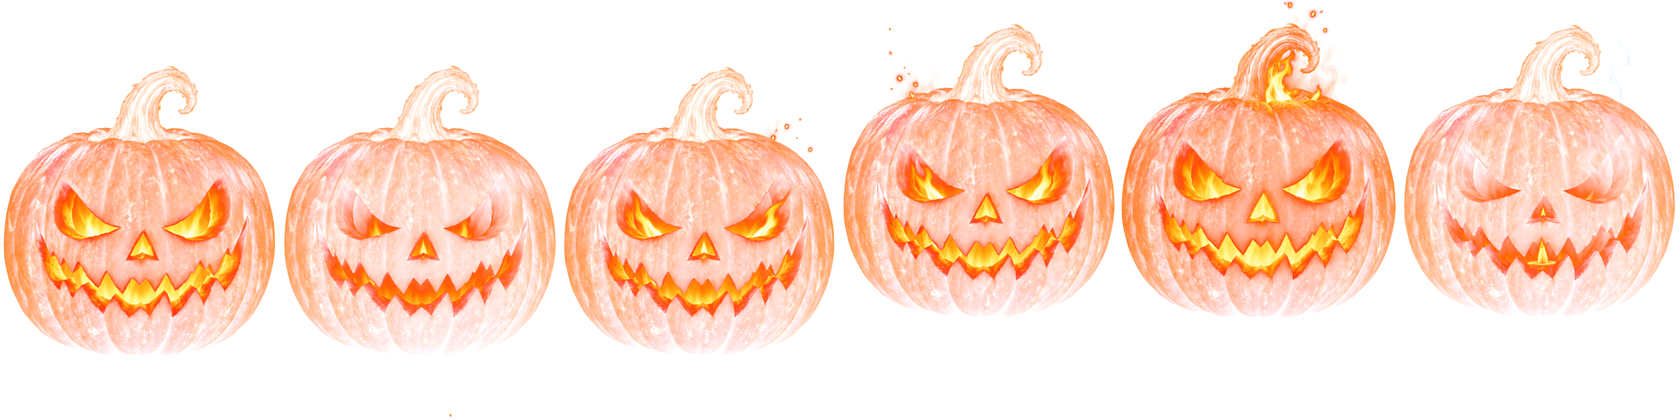
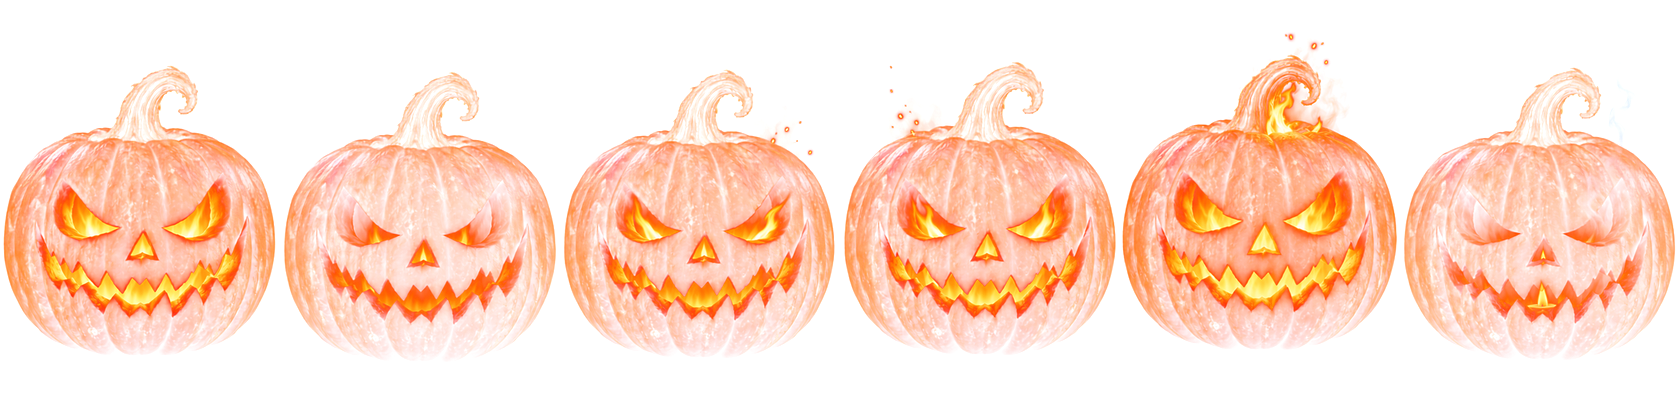
Header pumpkins: clear of the pills, frames aligned so they stop bouncing

Changed region(s): [[0.1548, 0.0619, 1.0, 0.8357]]

diff --git a/web/styles.css b/web/styles.css
@@ -1020,5 +1020,5 @@ html.cinema .search, html.cinema input.range { background: rgba(255,238,214,.07)
 @keyframes hw-apparition { 0% { opacity: 0; } 20% { opacity: .8; } 70% { opacity: .8; } 100% { opacity: 0; } }
 .hw-pumpkin { background-image: url(/assets/pumpkin-strip.png); animation: hw-frames .9s steps(6, end) infinite; width: 96px; height: 144px; }
 /* up in the header's empty stretch, clear of the controls */
-.hw-pumpkin-a { left: 1400px; top: -6px; }
-.hw-pumpkin-b { left: 1300px; top: 14px; width: 72px; height: 108px; animation-duration: 1.3s; animation-delay: -.4s; }
+.hw-pumpkin-a { left: 1340px; top: -6px; }
+.hw-pumpkin-b { left: 1245px; top: 14px; width: 72px; height: 108px; animation-duration: 1.3s; animation-delay: -.4s; }

diff --git a/tools/halloween-sprites.py b/tools/halloween-sprites.py
@@ -1,7 +1,8 @@
 #!/usr/bin/env python3
 """Slice a 3x2 sprite sheet (frames on pure black) into a horizontal strip with real alpha, so the
 panel needs no blend modes: alpha = brightness, colour un-premultiplied.
-usage: halloween-sprites.py <sheet.png> <out-strip.png> [frame-width]"""
+usage: halloween-sprites.py <sheet.png> <out-strip.png> [frame-width] [align]
+align pins every frame's solid body to frame 0's bottom and centre, for things that must not bounce (the pumpkin)"""
 import sys
 from PIL import Image, ImageChops
 
@@ -11,17 +12,28 @@ def unpremultiply(p, a):
 
 src, out = sys.argv[1], sys.argv[2]
 fw = int(sys.argv[3]) if len(sys.argv) > 3 else 280
+align = len(sys.argv) > 4 and sys.argv[4] == 'align'
 im = Image.open(src).convert('RGB')
 W, H = im.size
 cw, ch = W // 3, H // 2
 fh = round(fw * ch / cw)
 strip = Image.new('RGBA', (fw * 6, fh))
+ref = None
 for i in range(6):
     cell = im.crop(((i % 3) * cw, (i // 3) * ch, (i % 3 + 1) * cw, (i // 3 + 1) * ch)).resize((fw, fh), Image.LANCZOS)
     r, g, b = cell.split()
     alpha = ImageChops.lighter(ImageChops.lighter(r, g), b).point(lambda v: max(0, min(255, round((v - 10) * 255 / 245))))
     out_px = [unpremultiply(p, a) for p, a in zip(cell.getdata(), alpha.getdata())]
     frame = Image.new('RGBA', (fw, fh)); frame.putdata(out_px)
-    strip.paste(frame, (i * fw, 0))
+    dx = dy = 0
+    if align:
+        # solid rows only (a speck or spark does not count): the body's bottom edge and horizontal centre
+        solid = alpha.point(lambda v: 255 if v > 100 else 0)
+        rows = [y for y in range(fh) if solid.crop((0, y, fw, y + 1)).histogram()[255] >= 20]
+        cols = [x for x in range(fw) if solid.crop((x, 0, x + 1, fh)).histogram()[255] >= 20]
+        here = ((cols[0] + cols[-1]) // 2, rows[-1])
+        ref = ref or here
+        dx, dy = ref[0] - here[0], ref[1] - here[1]
+    strip.paste(frame, (i * fw + dx, dy))
 strip.save(out, optimize=True)
 print(out, strip.size)
